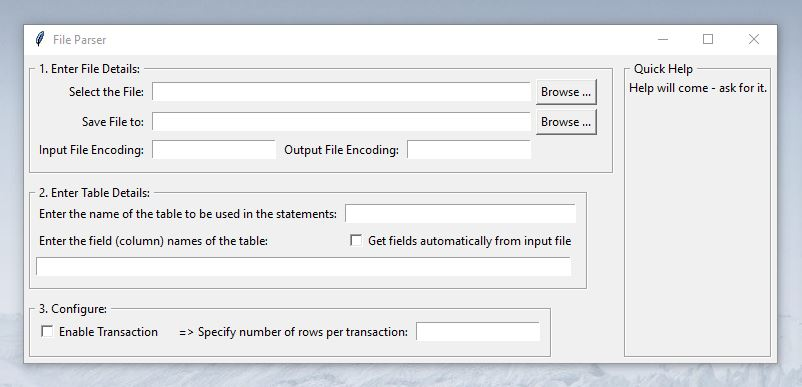
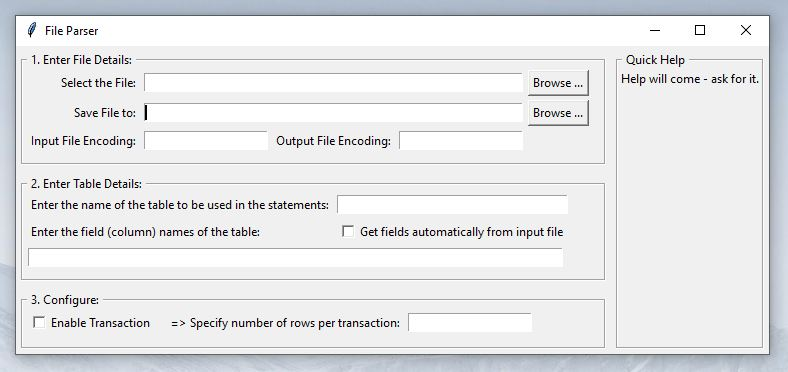
Added sticky EW to Geometry_V2

Changed region(s): [[0.0, 0.0296, 1.0, 1.0], [0.6701, 0.7984, 0.7005, 0.828]]

diff --git a/Geometry_V2.py b/Geometry_V2.py
@@ -10,7 +10,7 @@ getFld = Tkinter.IntVar()
 form.wm_title('File Parser')
 
 stepOne = Tkinter.LabelFrame(form, text=" 1. Enter File Details: ")
-stepOne.grid(row=0, columnspan=7, sticky='W', \
+stepOne.grid(row=0, columnspan=7, sticky='WE', \
                 padx=5, pady=5, ipadx=5, ipady=5)
 
 helpLf = Tkinter.LabelFrame(form, text=" Quick Help ")
@@ -20,11 +20,11 @@ helpLbl = Tkinter.Label(helpLf, text="Help will come - ask for it.")
 helpLbl.grid(row=0)
 
 stepTwo = Tkinter.LabelFrame(form, text=" 2. Enter Table Details: ")
-stepTwo.grid(row=2, columnspan=7, sticky='W', \
+stepTwo.grid(row=2, columnspan=7, sticky='WE', \
                 padx=5, pady=5, ipadx=5, ipady=5)
 
 stepThree = Tkinter.LabelFrame(form, text=" 3. Configure: ")
-stepThree.grid(row=3, columnspan=7, sticky='W', \
+stepThree.grid(row=3, columnspan=7, sticky='WE', \
                 padx=5, pady=5, ipadx=5, ipady=5)
 
 inFileLbl = Tkinter.Label(stepOne, text="Select the File:")
